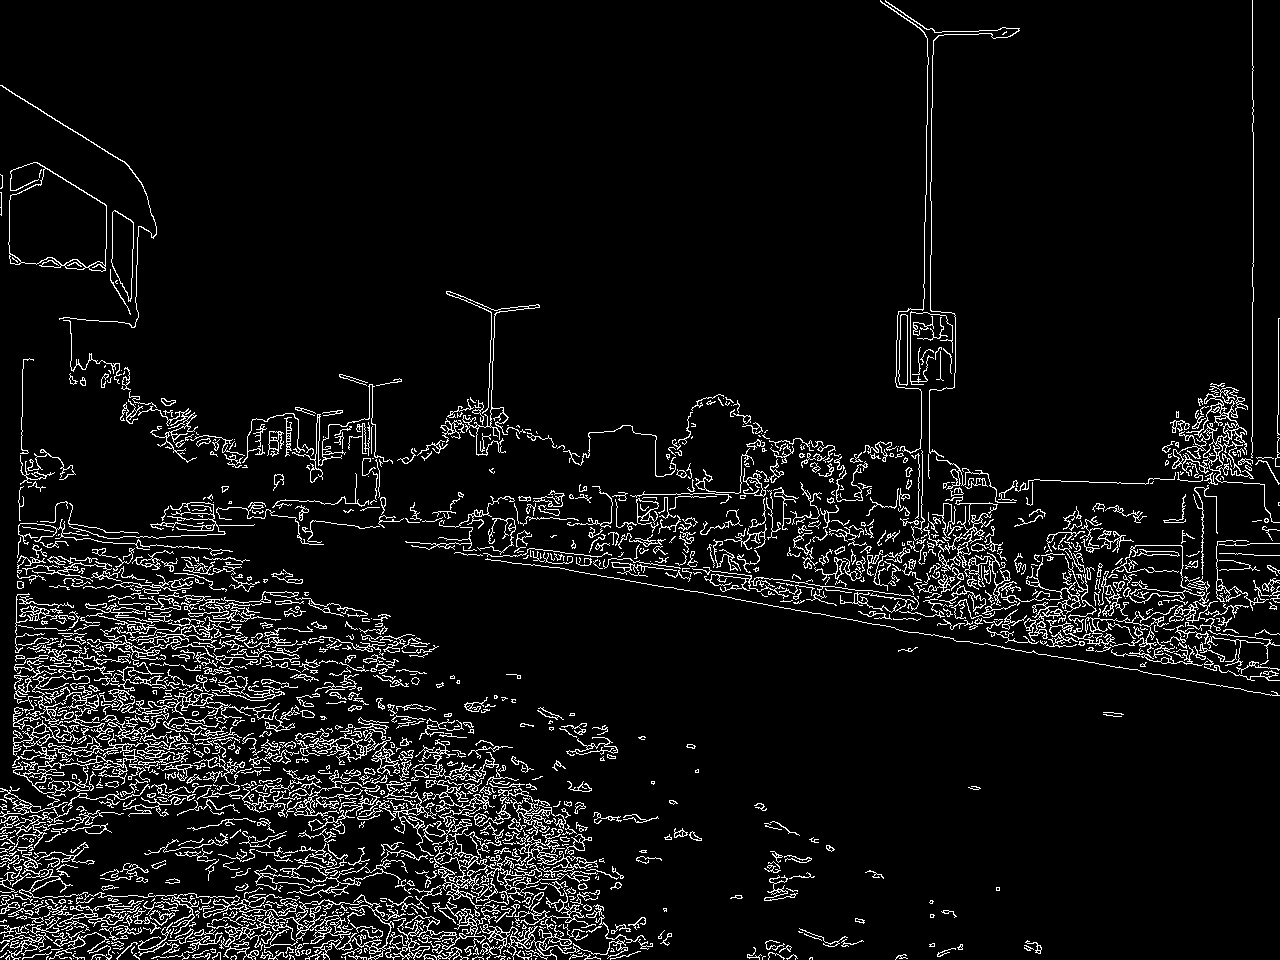
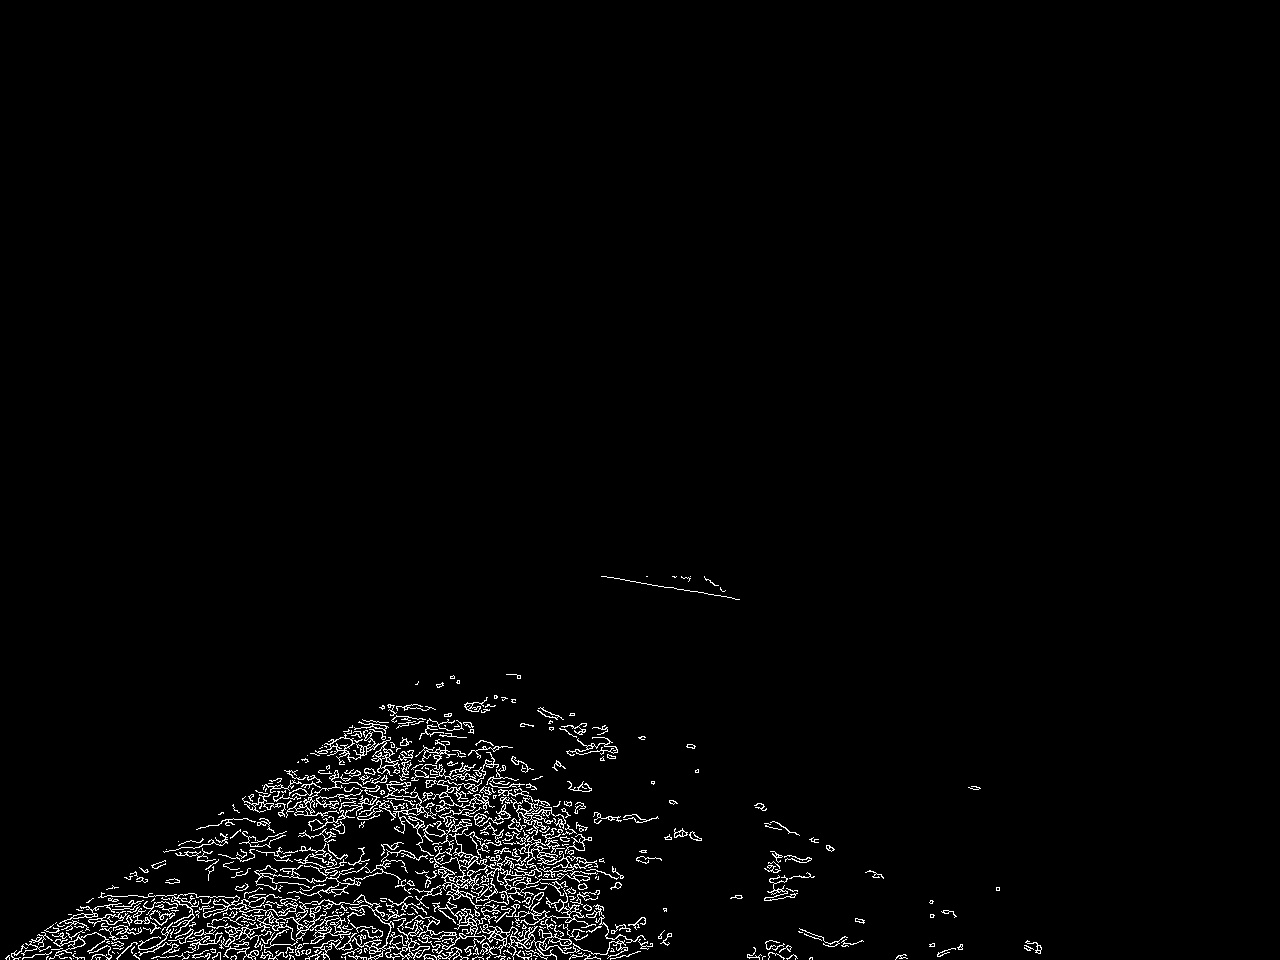
ROI concept cleared but still accuracy required

diff --git a/src/compare_preprocessing.py b/src/compare_preprocessing.py
@@ -1,38 +1,70 @@
 import os
 import cv2
+import numpy as np
 import matplotlib.pyplot as plt
-from preprocessing import preprocess_image
+from preprocessing import preprocess_image, apply_roi_mask, visualize_roi
 
 
 INPUT_DIR = "data/raw"
 
+
 for image_name in os.listdir(INPUT_DIR):
     image_path = os.path.join(INPUT_DIR, image_name)
 
+    # -----------------------------
     # Read original image
+    # -----------------------------
     original = cv2.imread(image_path)
     if original is None:
         continue
 
-    # Convert BGR → RGB for correct display
     original_rgb = cv2.cvtColor(original, cv2.COLOR_BGR2RGB)
 
-    # Get edge output
-    edges = preprocess_image(image_path)
+    # -----------------------------
+    # Visualize ROI on original image
+    # -----------------------------
+    image_with_roi = visualize_roi(original_rgb)
 
-    # Show side-by-side comparison
-    plt.figure(figsize=(10, 4))
+    plt.figure(figsize=(6, 6))
+    plt.title("Original Image with ROI")
+    plt.imshow(image_with_roi)
+    plt.axis("off")
+    plt.show()
 
-    plt.subplot(1, 2, 1)
+    # -----------------------------
+    # Edges WITHOUT ROI (baseline)
+    # -----------------------------
+    gray = cv2.cvtColor(original, cv2.COLOR_BGR2GRAY)
+    blur = cv2.GaussianBlur(gray, (5, 5), 0)
+    edges_no_roi = cv2.Canny(blur, 50, 150)
+
+    # -----------------------------
+    # Edges WITH ROI (project pipeline)
+    # -----------------------------
+    edges_with_roi = apply_roi_mask(edges_no_roi)
+
+    # -----------------------------
+    # Display comparison
+    # -----------------------------
+    plt.figure(figsize=(15, 4))
+
+    plt.subplot(1, 3, 1)
     plt.title("Original Image")
     plt.imshow(original_rgb)
     plt.axis("off")
 
-    plt.subplot(1, 2, 2)
-    plt.title("Edge Output (Canny)")
-    plt.imshow(edges, cmap="gray")
+    plt.subplot(1, 3, 2)
+    plt.title("Edges (No ROI)")
+    plt.imshow(edges_no_roi, cmap="gray")
+    plt.axis("off")
+
+    plt.subplot(1, 3, 3)
+    plt.title("Edges (With ROI)")
+    plt.imshow(edges_with_roi, cmap="gray")
     plt.axis("off")
 
     plt.suptitle(image_name)
     plt.tight_layout()
     plt.show()
+
+    

diff --git a/src/preprocessing.py b/src/preprocessing.py
@@ -8,31 +8,62 @@ def preprocess_image(
     canny_low: int = 50,
     canny_high: int = 150
 ):
-    """
-    Preprocess a road image for edge detection.
-
-    Steps:
-    1. Read image (BGR)
-    2. Convert to grayscale
-    3. Apply Gaussian blur
-    4. Apply Canny edge detection
-
-    Returns:
-        edges (numpy.ndarray): Binary edge image
-    """
-
-    # 1. Read image
     image = cv2.imread(image_path)
     if image is None:
         raise FileNotFoundError(f"Image not found: {image_path}")
 
-    # 2. Grayscale
     gray = cv2.cvtColor(image, cv2.COLOR_BGR2GRAY)
-
-    # 3. Gaussian Blur
     blur = cv2.GaussianBlur(gray, blur_kernel, 0)
-
-    # 4. Canny Edge Detection
     edges = cv2.Canny(blur, canny_low, canny_high)
 
+    # NEW: Apply ROI
+    edges = apply_roi_mask(edges)
+
     return edges
+
+
+import numpy as np
+
+def apply_roi_mask(edges):
+    """
+    Apply a trapezoidal region of interest mask
+    to keep only the road area.
+    """
+
+    height, width = edges.shape
+
+    # Define a trapezoid for road region
+    roi_vertices = np.array([[
+        (0, height),
+        (width * 0.2, height * 0.6),
+        (width * 0.8, height * 0.6),
+        (width, height)
+    ]], dtype=np.int32)
+
+    # Create mask
+    mask = np.zeros_like(edges)
+
+    # Fill ROI polygon with white
+    cv2.fillPoly(mask, roi_vertices, 255)
+
+    # Apply mask
+    masked_edges = cv2.bitwise_and(edges, mask)
+
+    return masked_edges
+
+import numpy as np
+import cv2
+def visualize_roi(image):
+    height, width = image.shape[:2]
+
+    roi_vertices = np.array([[
+        (0, height),
+        (width * 0.1, height * 0.75),
+        (width * 0.9, height * 0.75),
+        (width, height)
+    ]], dtype=np.int32)
+
+    overlay = image.copy()
+    cv2.polylines(overlay, roi_vertices, True, (0, 255, 0), 3)
+
+    return overlay
